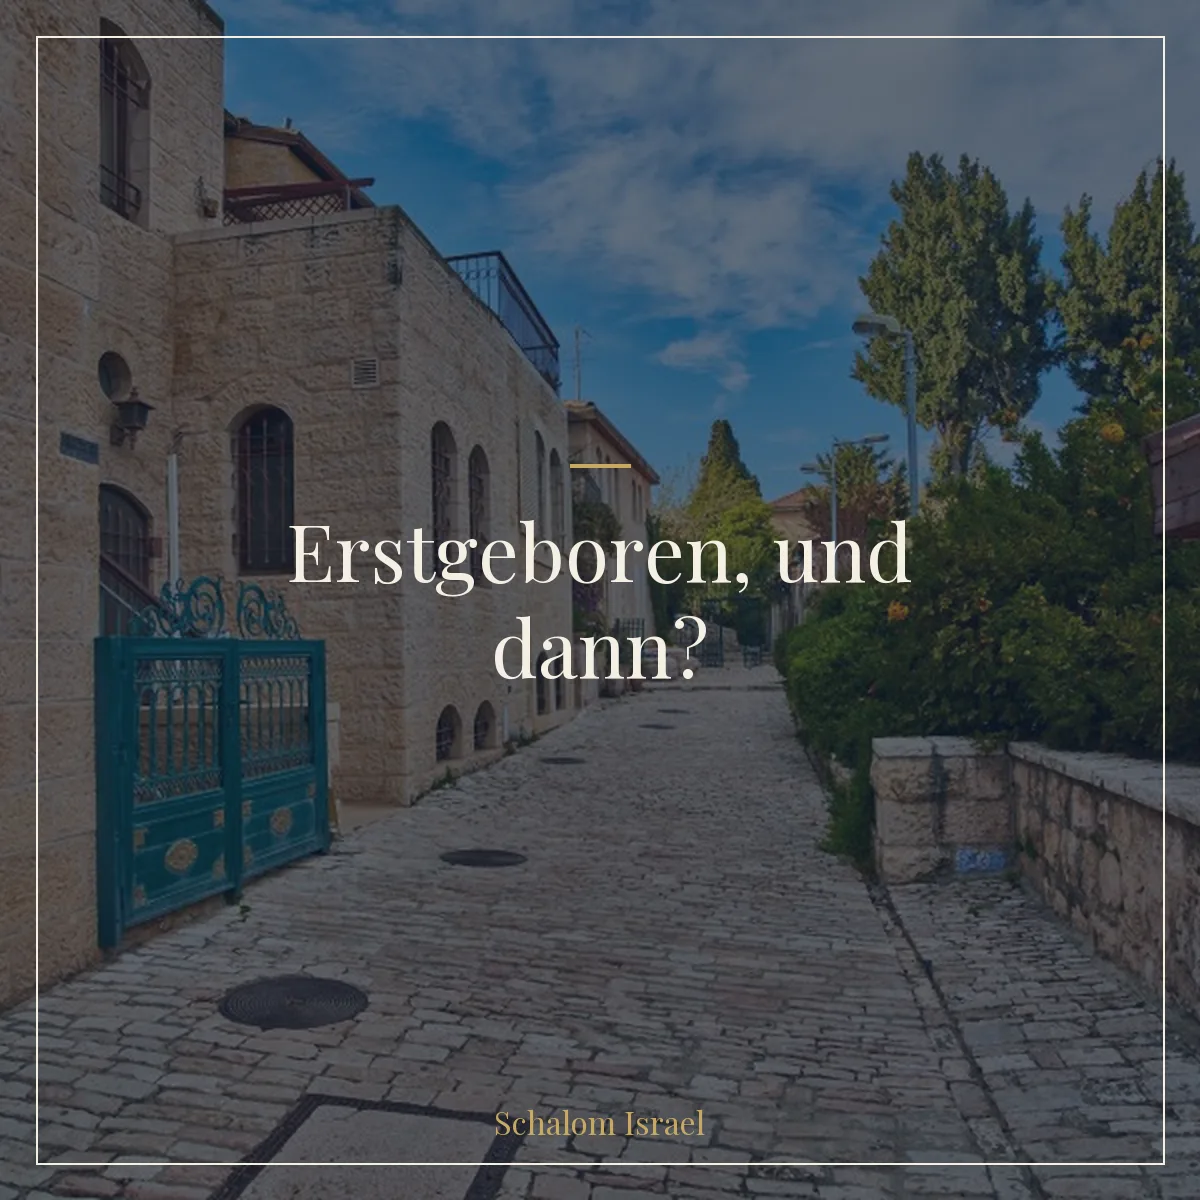
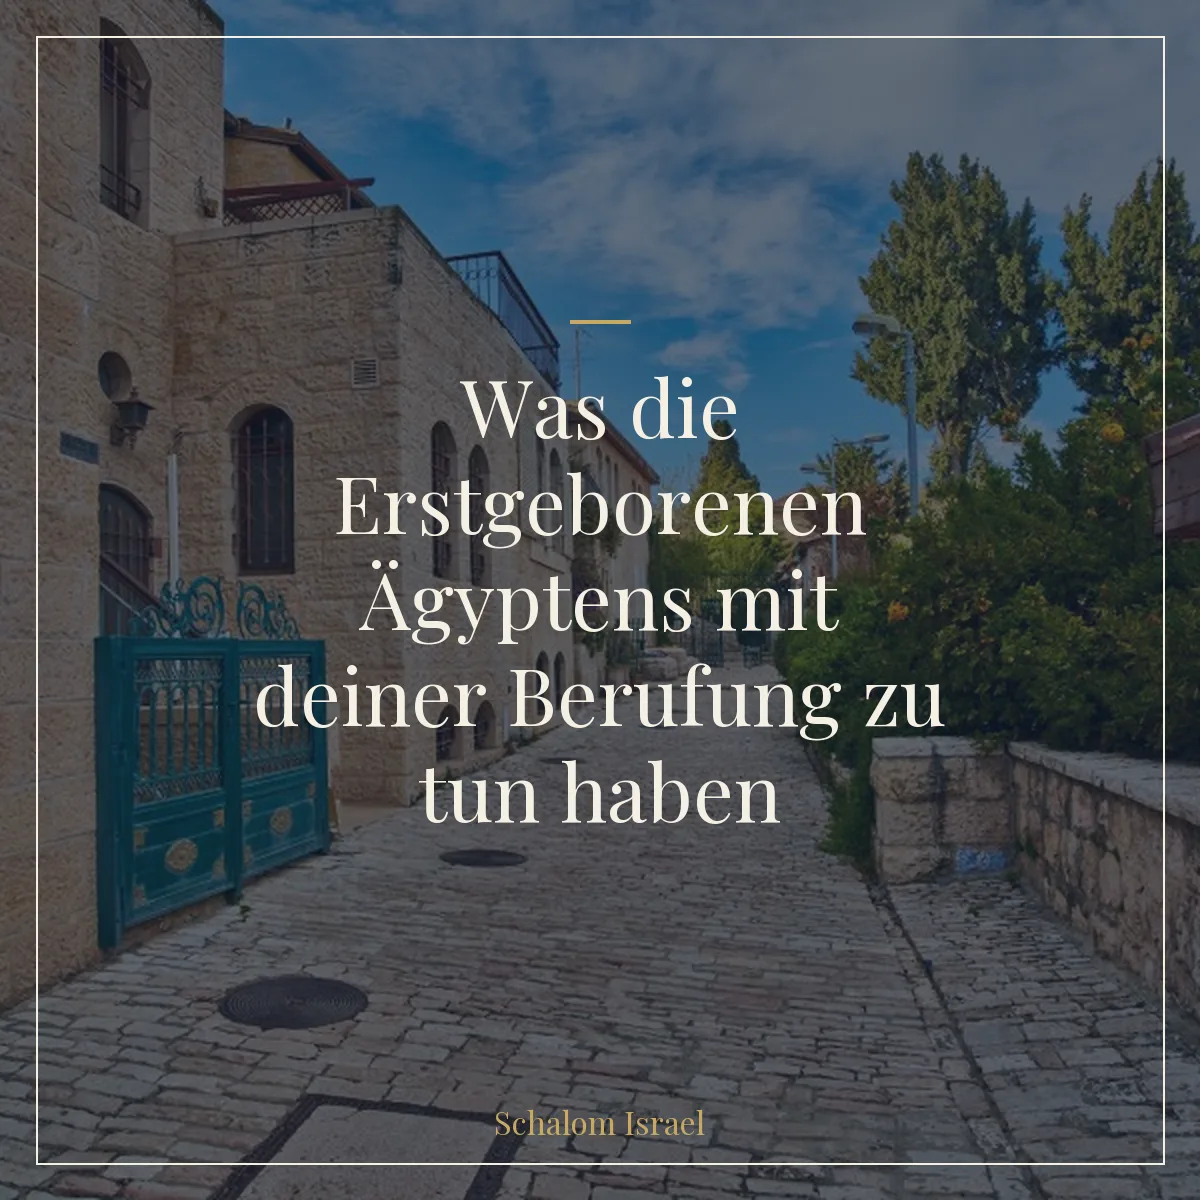
artikel: Titel geaendert zu "Was die Erstgeborenen Aegyptens..."
Titel des Erstgeboren-Artikels ueberall ersetzt: Artikel-Seite,
Blog-Index, Startseite, Themen-Kategorie, Meta-Tags und JSON-LD.
Share-Bild mit neuem Titel neu generiert. Slug/URL unveraendert.

Changed region(s): [[0.2158, 0.3083, 0.8017, 0.7092], [0.4933, 0.2467, 0.5242, 0.2775]]

diff --git a/erstgeboren-und-dann/index.html b/erstgeboren-und-dann/index.html
@@ -4,9 +4,9 @@
   <meta charset="UTF-8">
   <link rel="icon" type="image/svg+xml" href="/favicon.svg">
   <meta name="viewport" content="width=device-width, initial-scale=1.0">
-  <title>Erstgeboren, und dann? – Schalom Israel</title>
+  <title>Was die Erstgeborenen Ägyptens mit deiner Berufung zu tun haben – Schalom Israel</title>
   <meta name="description" content="273 Erstgeborene werden in der Wüste ausgelöst, die Leviten treten an ihre Stelle. Was Erstgeburt wirklich bedeutet und warum Berufung kein fester Besitz ist.">
-  <meta property="og:title" content="Erstgeboren, und dann?">
+  <meta property="og:title" content="Was die Erstgeborenen Ägyptens mit deiner Berufung zu tun haben">
   <meta property="og:description" content="273 Erstgeborene werden in der Wüste ausgelöst, die Leviten treten an ihre Stelle. Was Erstgeburt wirklich bedeutet und warum Berufung kein fester Besitz ist.">
   <meta property="og:image" content="https://www.schalomisrael.de/bilder/share/erstgeboren-und-dann.webp">
   <meta property="og:url" content="https://www.schalomisrael.de/erstgeboren-und-dann/">
@@ -22,7 +22,7 @@
   {
   "@context": "https://schema.org",
   "@type": "Article",
-  "headline": "Erstgeboren, und dann?",
+  "headline": "Was die Erstgeborenen Ägyptens mit deiner Berufung zu tun haben",
   "description": "273 Erstgeborene werden in der Wüste ausgelöst, die Leviten treten an ihre Stelle. Was Erstgeburt wirklich bedeutet und warum Berufung kein fester Besitz ist.",
   "image": "https://www.schalomisrael.de/bilder/share/erstgeboren-und-dann.webp",
   "datePublished": "2026-05-14",
@@ -65,7 +65,7 @@
     {
       "@type": "ListItem",
       "position": 3,
-      "name": "Erstgeboren, und dann?"
+      "name": "Was die Erstgeborenen Ägyptens mit deiner Berufung zu tun haben"
     }
   ]
 }
@@ -100,7 +100,7 @@
         <span class="meta-divider">·</span>
         <span class="article-reading-time" data-reading-time>… Min Lesezeit</span>
       </div>
-      <h1 class="article-hero-title">Erstgeboren, und dann?</h1>
+      <h1 class="article-hero-title">Was die Erstgeborenen Ägyptens mit deiner Berufung zu tun haben</h1>
     </div>
   </header>
   <nav class="breadcrumb" aria-label="Brotkrumen-Navigation">
@@ -109,7 +109,7 @@
       <span class="breadcrumb-sep">›</span>
       <a href="/blog/">Blog</a>
       <span class="breadcrumb-sep">›</span>
-      <span class="breadcrumb-current">Erstgeboren, und dann?</span>
+      <span class="breadcrumb-current">Was die Erstgeborenen Ägyptens mit deiner Berufung zu tun haben</span>
     </div>
   </nav>
 
@@ -138,7 +138,7 @@
       <p>Dazwischen eine Lücke von 273 Menschen. Und für jeden dieser 273 muss gezahlt werden. Fünf Schekel pro Kopf (4.Mo 3,46-47).</p>
 
       <figure class="article-share-img">
-        <img src="/bilder/share/erstgeboren-und-dann.webp" alt="Erstgeboren, und dann?" width="1200" height="1200" loading="lazy">
+        <img src="/bilder/share/erstgeboren-und-dann.webp" alt="Was die Erstgeborenen Ägyptens mit deiner Berufung zu tun haben" width="1200" height="1200" loading="lazy">
       </figure>
 
       <p>Warum das alles?</p>

diff --git a/themen/berufung-und-verantwortung/index.html b/themen/berufung-und-verantwortung/index.html
@@ -140,7 +140,7 @@
         "@type": "ListItem",
         "position": 1,
         "url": "https://www.schalomisrael.de/erstgeboren-und-dann/",
-        "name": "Erstgeboren, und dann?"
+        "name": "Was die Erstgeborenen Ägyptens mit deiner Berufung zu tun haben"
       },
       {
         "@type": "ListItem",
@@ -236,11 +236,11 @@
     <div class="container">
       <article class="article-card" data-parasha="bamidbar" data-book="bamidbar">
         <a href="/erstgeboren-und-dann/" class="article-image-link">
-          <img src="/bilder/share/erstgeboren-und-dann.webp" alt="Erstgeboren, und dann?" class="article-image">
+          <img src="/bilder/share/erstgeboren-und-dann.webp" alt="Was die Erstgeborenen Ägyptens mit deiner Berufung zu tun haben" class="article-image">
         </a>
         <div class="article-body">
           <p class="article-author">Micha Levzion</p>
-          <h3 class="article-title"><a href="/erstgeboren-und-dann/">Erstgeboren, und dann?</a></h3>
+          <h3 class="article-title"><a href="/erstgeboren-und-dann/">Was die Erstgeborenen Ägyptens mit deiner Berufung zu tun haben</a></h3>
           <p class="article-excerpt">273 Erstgeborene werden in der Wüste ausgelöst, die Leviten treten an ihre Stelle. Warum Berufung kein fester Besitz ist, sondern sich daran entscheidet, wo du stehst, wenn es zählt.</p>
           <a href="/erstgeboren-und-dann/" class="btn btn--outline">Beitrag lesen</a>
         </div>

diff --git a/index.html b/index.html
@@ -251,11 +251,11 @@
 
       <article class="article-card">
         <a href="/erstgeboren-und-dann/" class="article-image-link">
-          <img src="bilder/share/erstgeboren-und-dann.webp" alt="Erstgeboren, und dann?" width="1200" height="1200" loading="lazy" class="article-image">
+          <img src="bilder/share/erstgeboren-und-dann.webp" alt="Was die Erstgeborenen Ägyptens mit deiner Berufung zu tun haben" width="1200" height="1200" loading="lazy" class="article-image">
         </a>
         <div class="article-body">
           <p class="article-author">Micha Levzion</p>
-          <h3 class="article-title"><a href="/erstgeboren-und-dann/">Erstgeboren, und dann?</a></h3>
+          <h3 class="article-title"><a href="/erstgeboren-und-dann/">Was die Erstgeborenen Ägyptens mit deiner Berufung zu tun haben</a></h3>
           <p class="article-excerpt">273 Erstgeborene werden in der Wüste ausgelöst, die Leviten treten an ihre Stelle. Was Erstgeburt wirklich bedeutet und warum Berufung kein fester Besitz ist, sondern sich daran entscheidet, wo du stehst, wenn es zählt.</p>
           <a href="/erstgeboren-und-dann/" class="btn btn--outline">Beitrag lesen</a>
         </div>

diff --git a/blog/index.html b/blog/index.html
@@ -269,11 +269,11 @@
 
       <article class="article-card" data-parasha="bamidbar" data-book="bamidbar">
         <a href="/erstgeboren-und-dann/" class="article-image-link">
-          <img src="../bilder/share/erstgeboren-und-dann.webp" alt="Erstgeboren, und dann?" class="article-image">
+          <img src="../bilder/share/erstgeboren-und-dann.webp" alt="Was die Erstgeborenen Ägyptens mit deiner Berufung zu tun haben" class="article-image">
         </a>
         <div class="article-body">
           <p class="article-author">Micha Levzion</p>
-          <h3 class="article-title"><a href="/erstgeboren-und-dann/">Erstgeboren, und dann?</a></h3>
+          <h3 class="article-title"><a href="/erstgeboren-und-dann/">Was die Erstgeborenen Ägyptens mit deiner Berufung zu tun haben</a></h3>
           <p class="article-excerpt">273 Erstgeborene werden in der Wüste ausgelöst, die Leviten treten an ihre Stelle. Was Erstgeburt wirklich bedeutet und warum Berufung kein fester Besitz ist, sondern sich daran entscheidet, wo du stehst, wenn es zählt.</p>
           <a href="/erstgeboren-und-dann/" class="btn btn--outline">Beitrag lesen</a>
         </div>
